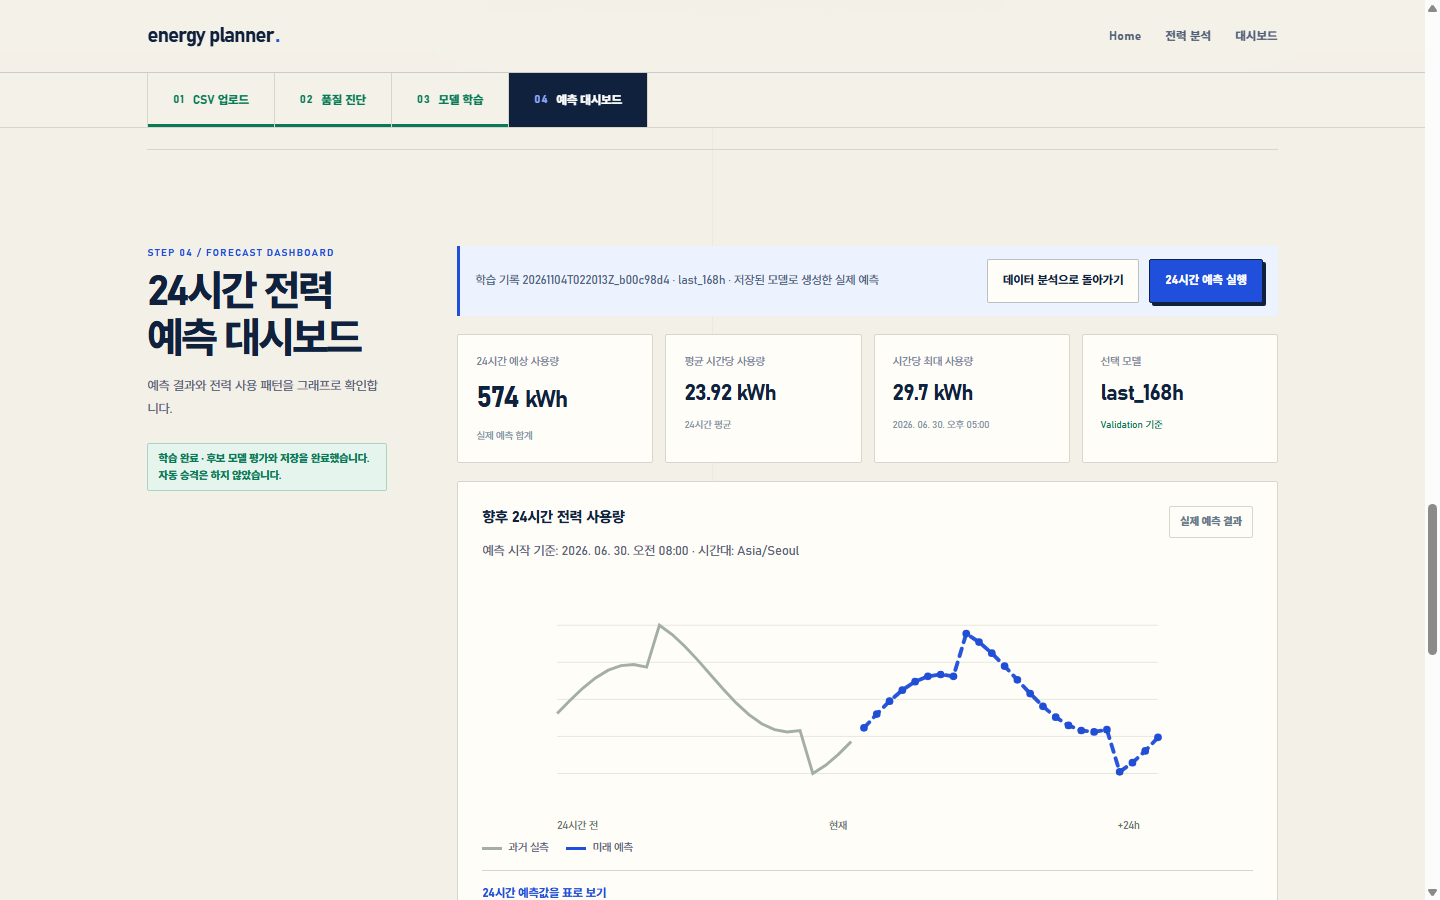
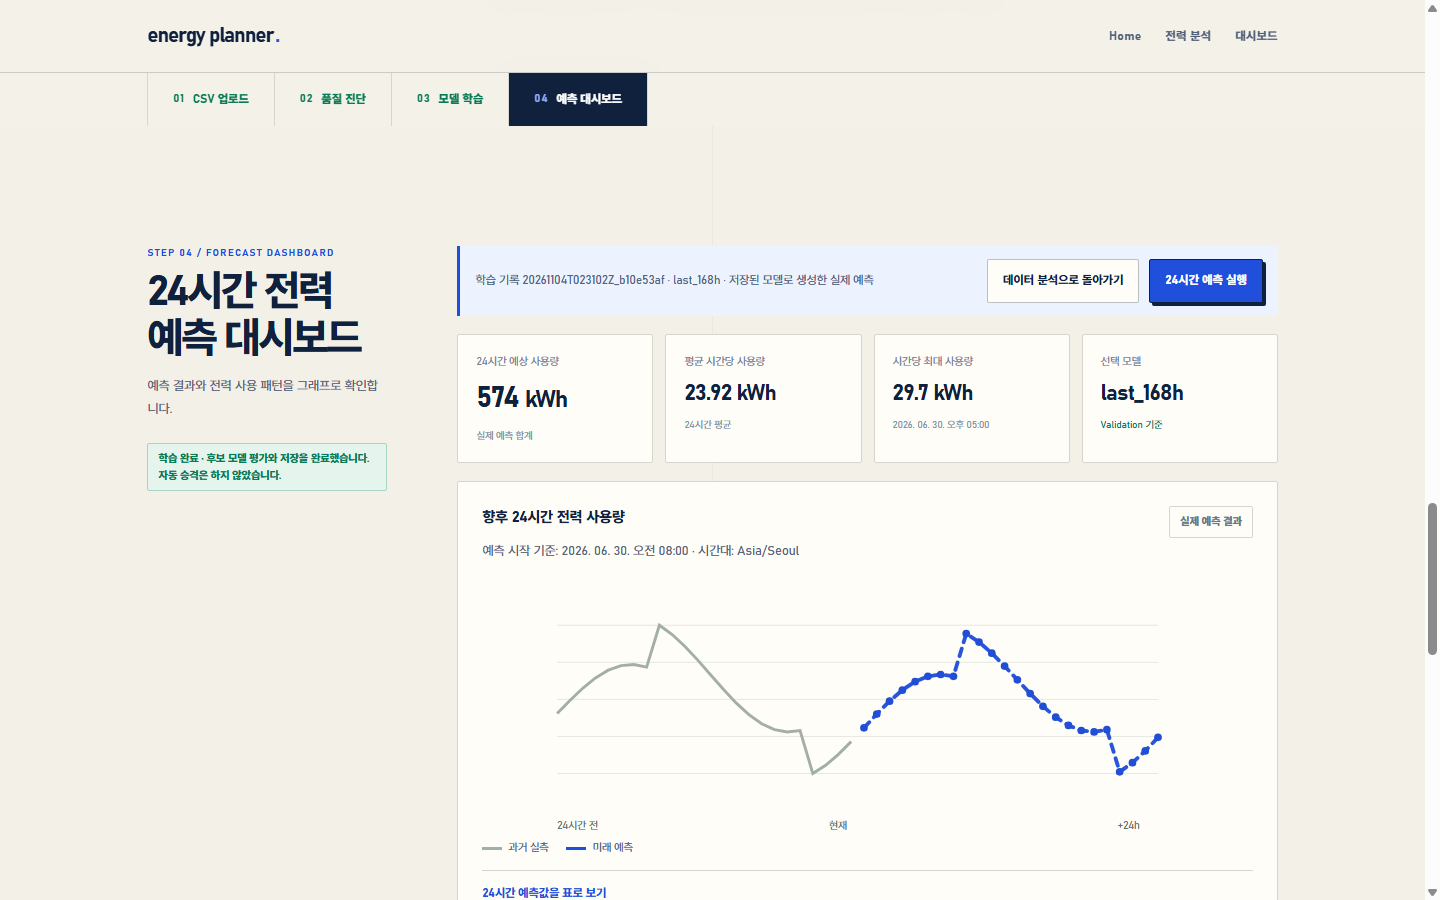
style: simplify workflow step bar

Changed region(s): [[0.0938, 0.0933, 0.3438, 0.1556], [0.4375, 0.28, 0.5938, 0.3422], [0.375, 0.0933, 0.4375, 0.1244]]

diff --git a/frontend/reference-system.css b/frontend/reference-system.css
@@ -56,9 +56,8 @@ a { color: inherit; }
 .topnav a:hover { color: var(--ink); }
 .topnav a:hover::after, .topnav a:focus-visible::after { transform: scaleX(1); transform-origin: left; }
 
-.hero { position: relative; isolation: isolate; overflow: hidden; border-bottom: 1px solid var(--line); background: var(--bg); }
+.hero { position: relative; isolation: isolate; overflow: hidden; background: var(--bg); }
 .hero::before { content: ""; position: absolute; inset: 0; z-index: -2; opacity: .52; background-image: linear-gradient(90deg, rgba(31, 79, 219, .11) 1px, transparent 1px); background-size: calc(100% / 24) 100%; mask-image: linear-gradient(90deg, transparent 0, black 52%, black 100%); }
-.hero::after { content: ""; position: absolute; inset: auto 0 0; z-index: -1; height: 1px; background: linear-gradient(90deg, var(--blue) 0 18%, transparent 18%); }
 .brand-hero-inner { min-height: 500px; padding-top: 76px; padding-bottom: 44px; display: flex; flex-direction: column; align-items: flex-start; justify-content: center; }
 .brand-title { display: flex; max-width: 100%; margin: 0 0 20px; align-items: baseline; color: var(--ink); font-family: "Arial Black", Arial, Helvetica, sans-serif; font-size: clamp(40px, 7.4vw, 96px); font-weight: 900; line-height: 1.08; letter-spacing: -.075em; white-space: nowrap; text-wrap: nowrap; text-shadow: 0 3px 2px rgba(16, 33, 61, .08); }
 .brand-energy { display: inline-block; min-width: 0; min-height: 0; margin-right: .16em; padding: 0; border: 0; border-radius: 0; background: transparent; color: var(--blue); font: inherit; line-height: inherit; letter-spacing: inherit; text-shadow: inherit; cursor: pointer; transition: color .18s ease; }
@@ -87,19 +86,20 @@ a { color: inherit; }
 .brand-curve-labels { position: relative; display: flex; justify-content: space-between; margin-top: 8px; color: var(--sub); font-size: 11px; line-height: 1.5; }
 .brand-curve-now { position: absolute; left: 66.12%; transform: translateX(-50%); }
 
-.sticky-steps { position: sticky; top: var(--header-height); z-index: 20; border-block: 1px solid var(--line); background: rgba(243, 240, 232, .96); backdrop-filter: blur(14px); }
+.sticky-steps { position: sticky; top: var(--header-height); z-index: 20; background: rgba(243, 240, 232, .96); backdrop-filter: blur(14px); }
 .steps-inner { display: flex; gap: 0; overflow-x: auto; padding-block: 0; scrollbar-width: thin; }
 .step-button { position: relative; display: inline-flex; align-items: center; flex: 0 0 auto; min-height: var(--steps-height); border: 0; border-right: 1px solid var(--line); background: transparent; color: #6a7484; padding: 0 25px; font-size: 12px; font-weight: 750; white-space: nowrap; }
 .step-button:first-child { border-left: 1px solid var(--line); }
 .step-button:hover { background: #ebe8df; color: var(--ink); }
 .step-button span { margin-right: 8px; color: var(--blue-soft); font-size: 11px; font-weight: 900; letter-spacing: .08em; }
-.step-button[data-status="complete"] { color: var(--success); box-shadow: inset 0 -3px 0 var(--success); }
+.step-button[data-status="complete"] { color: var(--success); font-weight: 850; box-shadow: none; }
 .step-button[data-status="complete"] span { color: var(--success); }
 .step-button.is-active, .step-button[aria-current="step"] { background: var(--ink); color: #fff; box-shadow: none; }
 .step-button.is-active span, .step-button[aria-current="step"] span { color: var(--blue-soft); }
 
 .global-error { min-height: 0; margin: 0; }
 .section { display: grid; grid-template-columns: 240px minmax(0, 1fr); gap: 0 clamp(42px, 5vw, 70px); padding-block: clamp(64px, 7vw, 96px); border-bottom: 1px solid var(--line); scroll-margin-top: calc(var(--header-height) + var(--steps-height) + 24px); }
+.workflow-panel { border-bottom: 0; }
 .section-heading { align-self: start; min-width: 0; }
 .section-heading > div:first-child { min-width: 0; }
 .section-heading .status { margin-top: 22px; }
